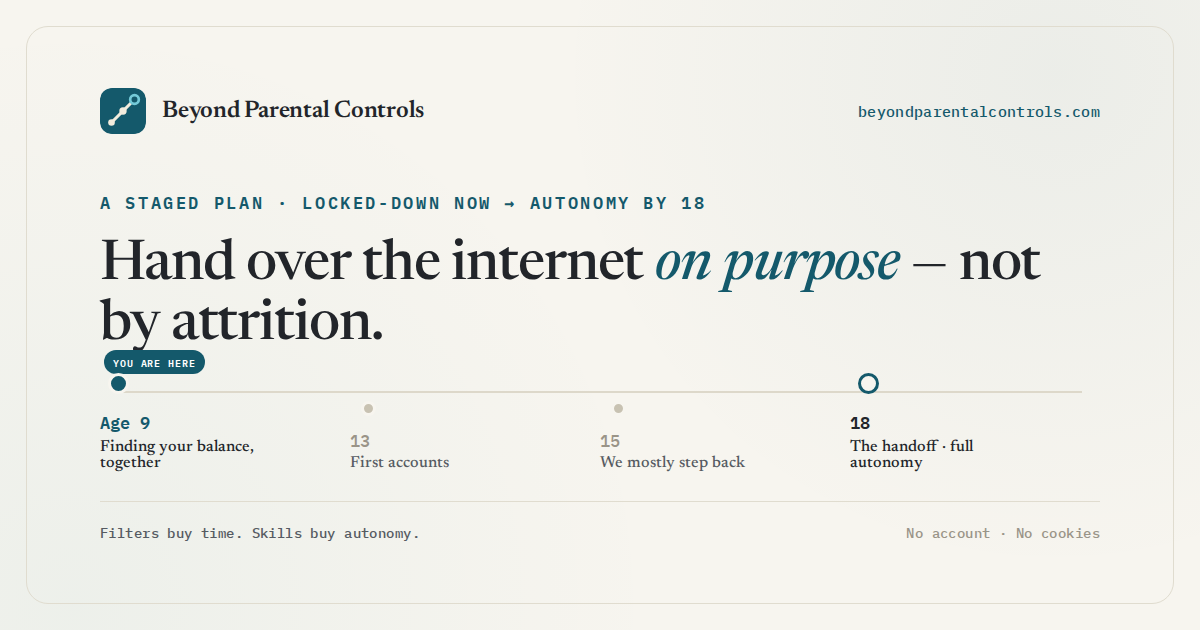
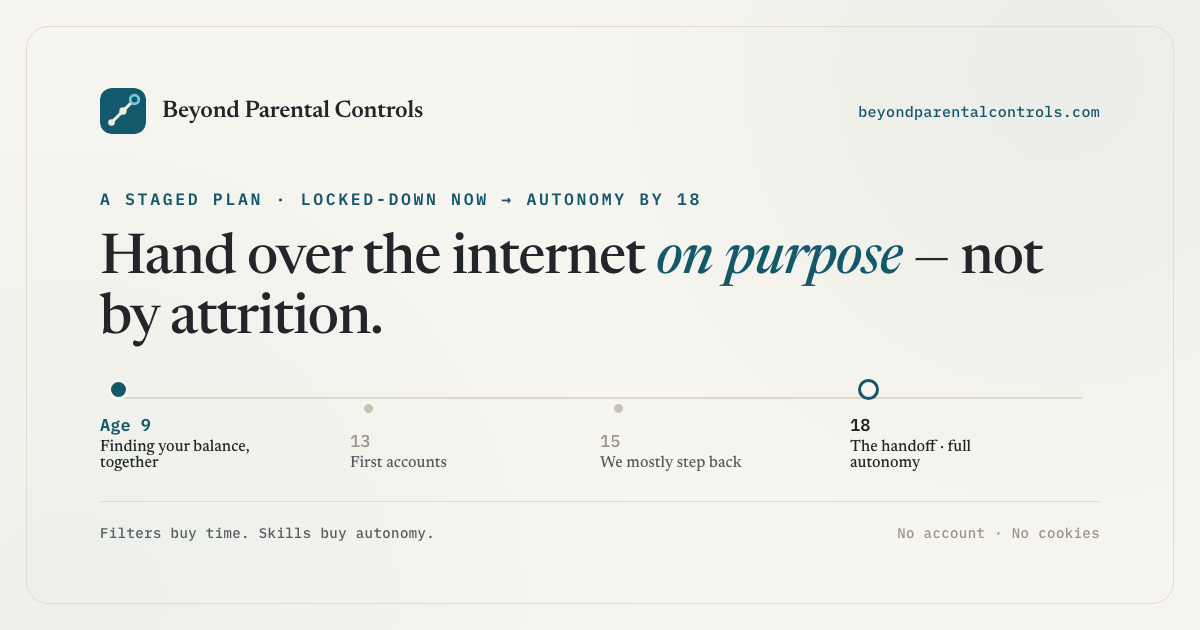
Remove illegible "You are here" pill from parent OG image
The pill sat too close to the headline and was too small to read.
Drop the pill markup and its CSS; the Age 9 stop's accent dot and
bold label still mark the current position on the age rail.

diff --git a/design/branding/parent-og.html b/design/branding/parent-og.html
@@ -71,11 +71,6 @@
   .stop.end .age { color: var(--text); font-weight: 600; }
   .stop .cap { font-family: var(--serif); font-size: 16px; color: var(--muted); margin-top: 3px; max-width: 190px; }
   .stop.here .cap, .stop.end .cap { color: var(--text); }
-  .here-pill {
-    font-family: var(--mono); font-size: 10px; font-weight: 600; letter-spacing: 0.09em; text-transform: uppercase;
-    color: #fff; background: var(--accent); border-radius: 999px; padding: 3px 9px;
-    position: absolute; top: -26px; left: 4px;
-  }
 
   .foot {
     margin-top: 30px; padding-top: 22px; border-top: 1px solid var(--rule);
@@ -107,7 +102,6 @@
 
     <div class="rail">
       <div class="stop here">
-        <span class="here-pill">You are here</span>
         <span class="dot"></span><span class="age">Age 9</span><span class="cap">Finding your balance, together</span>
       </div>
       <div class="stop">